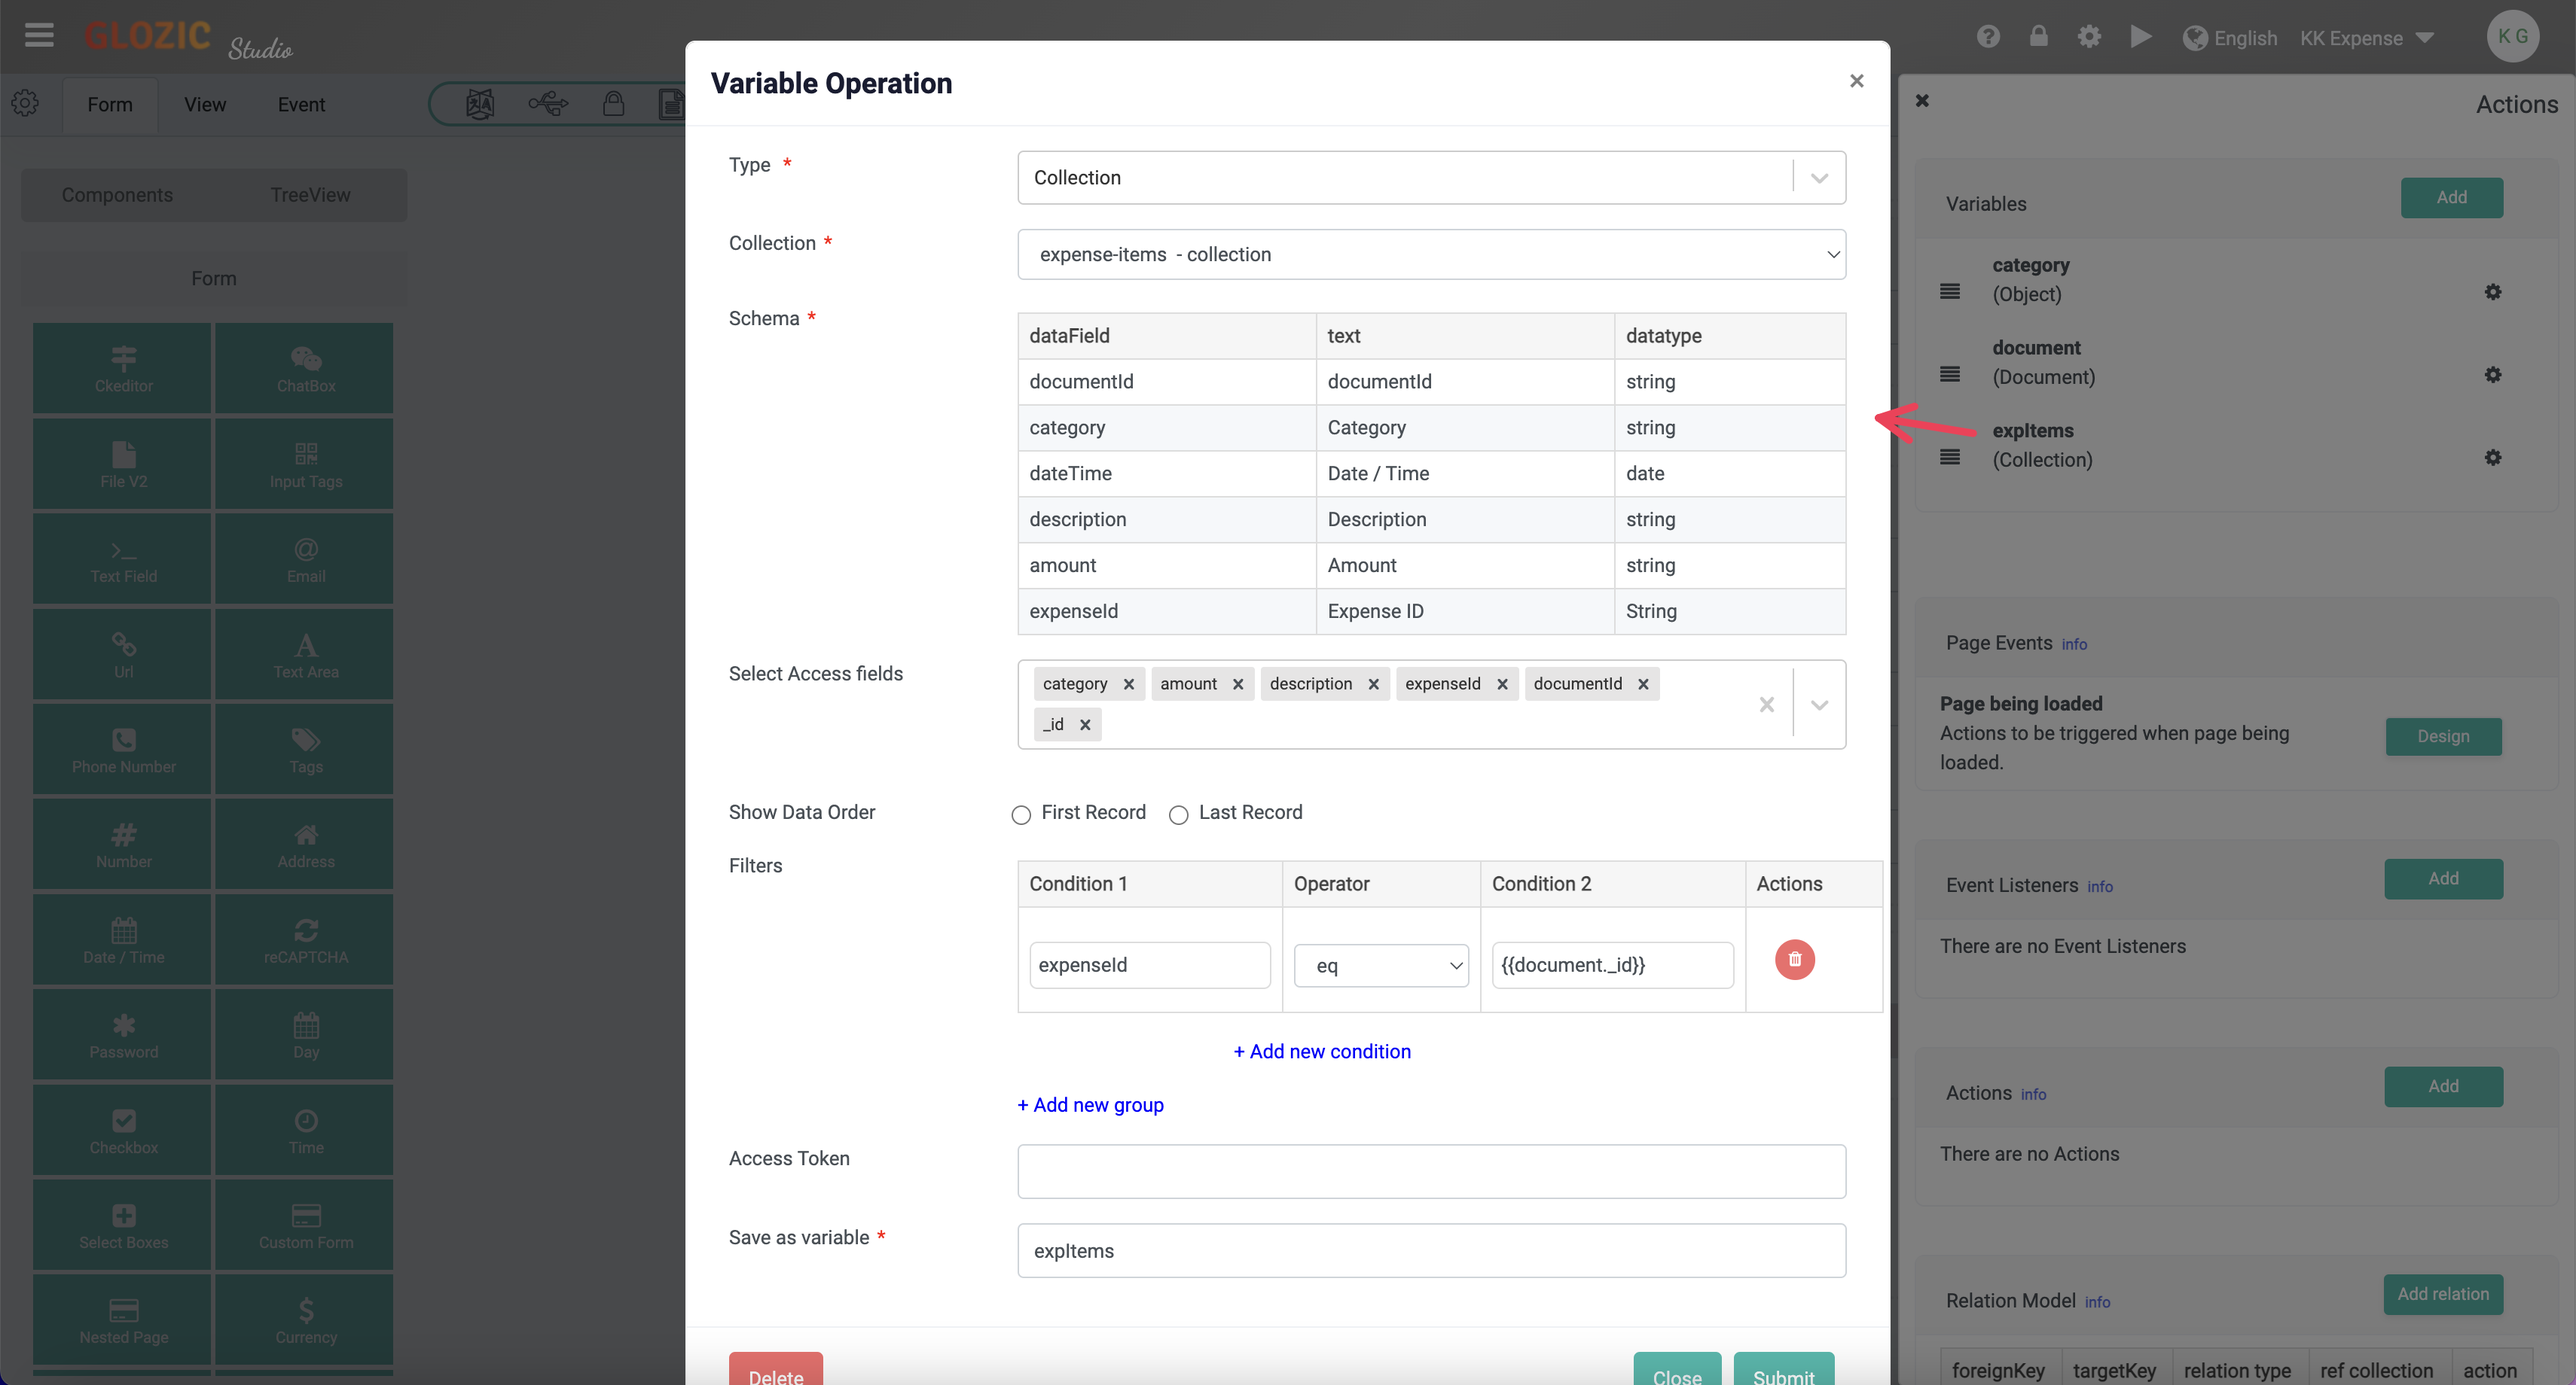
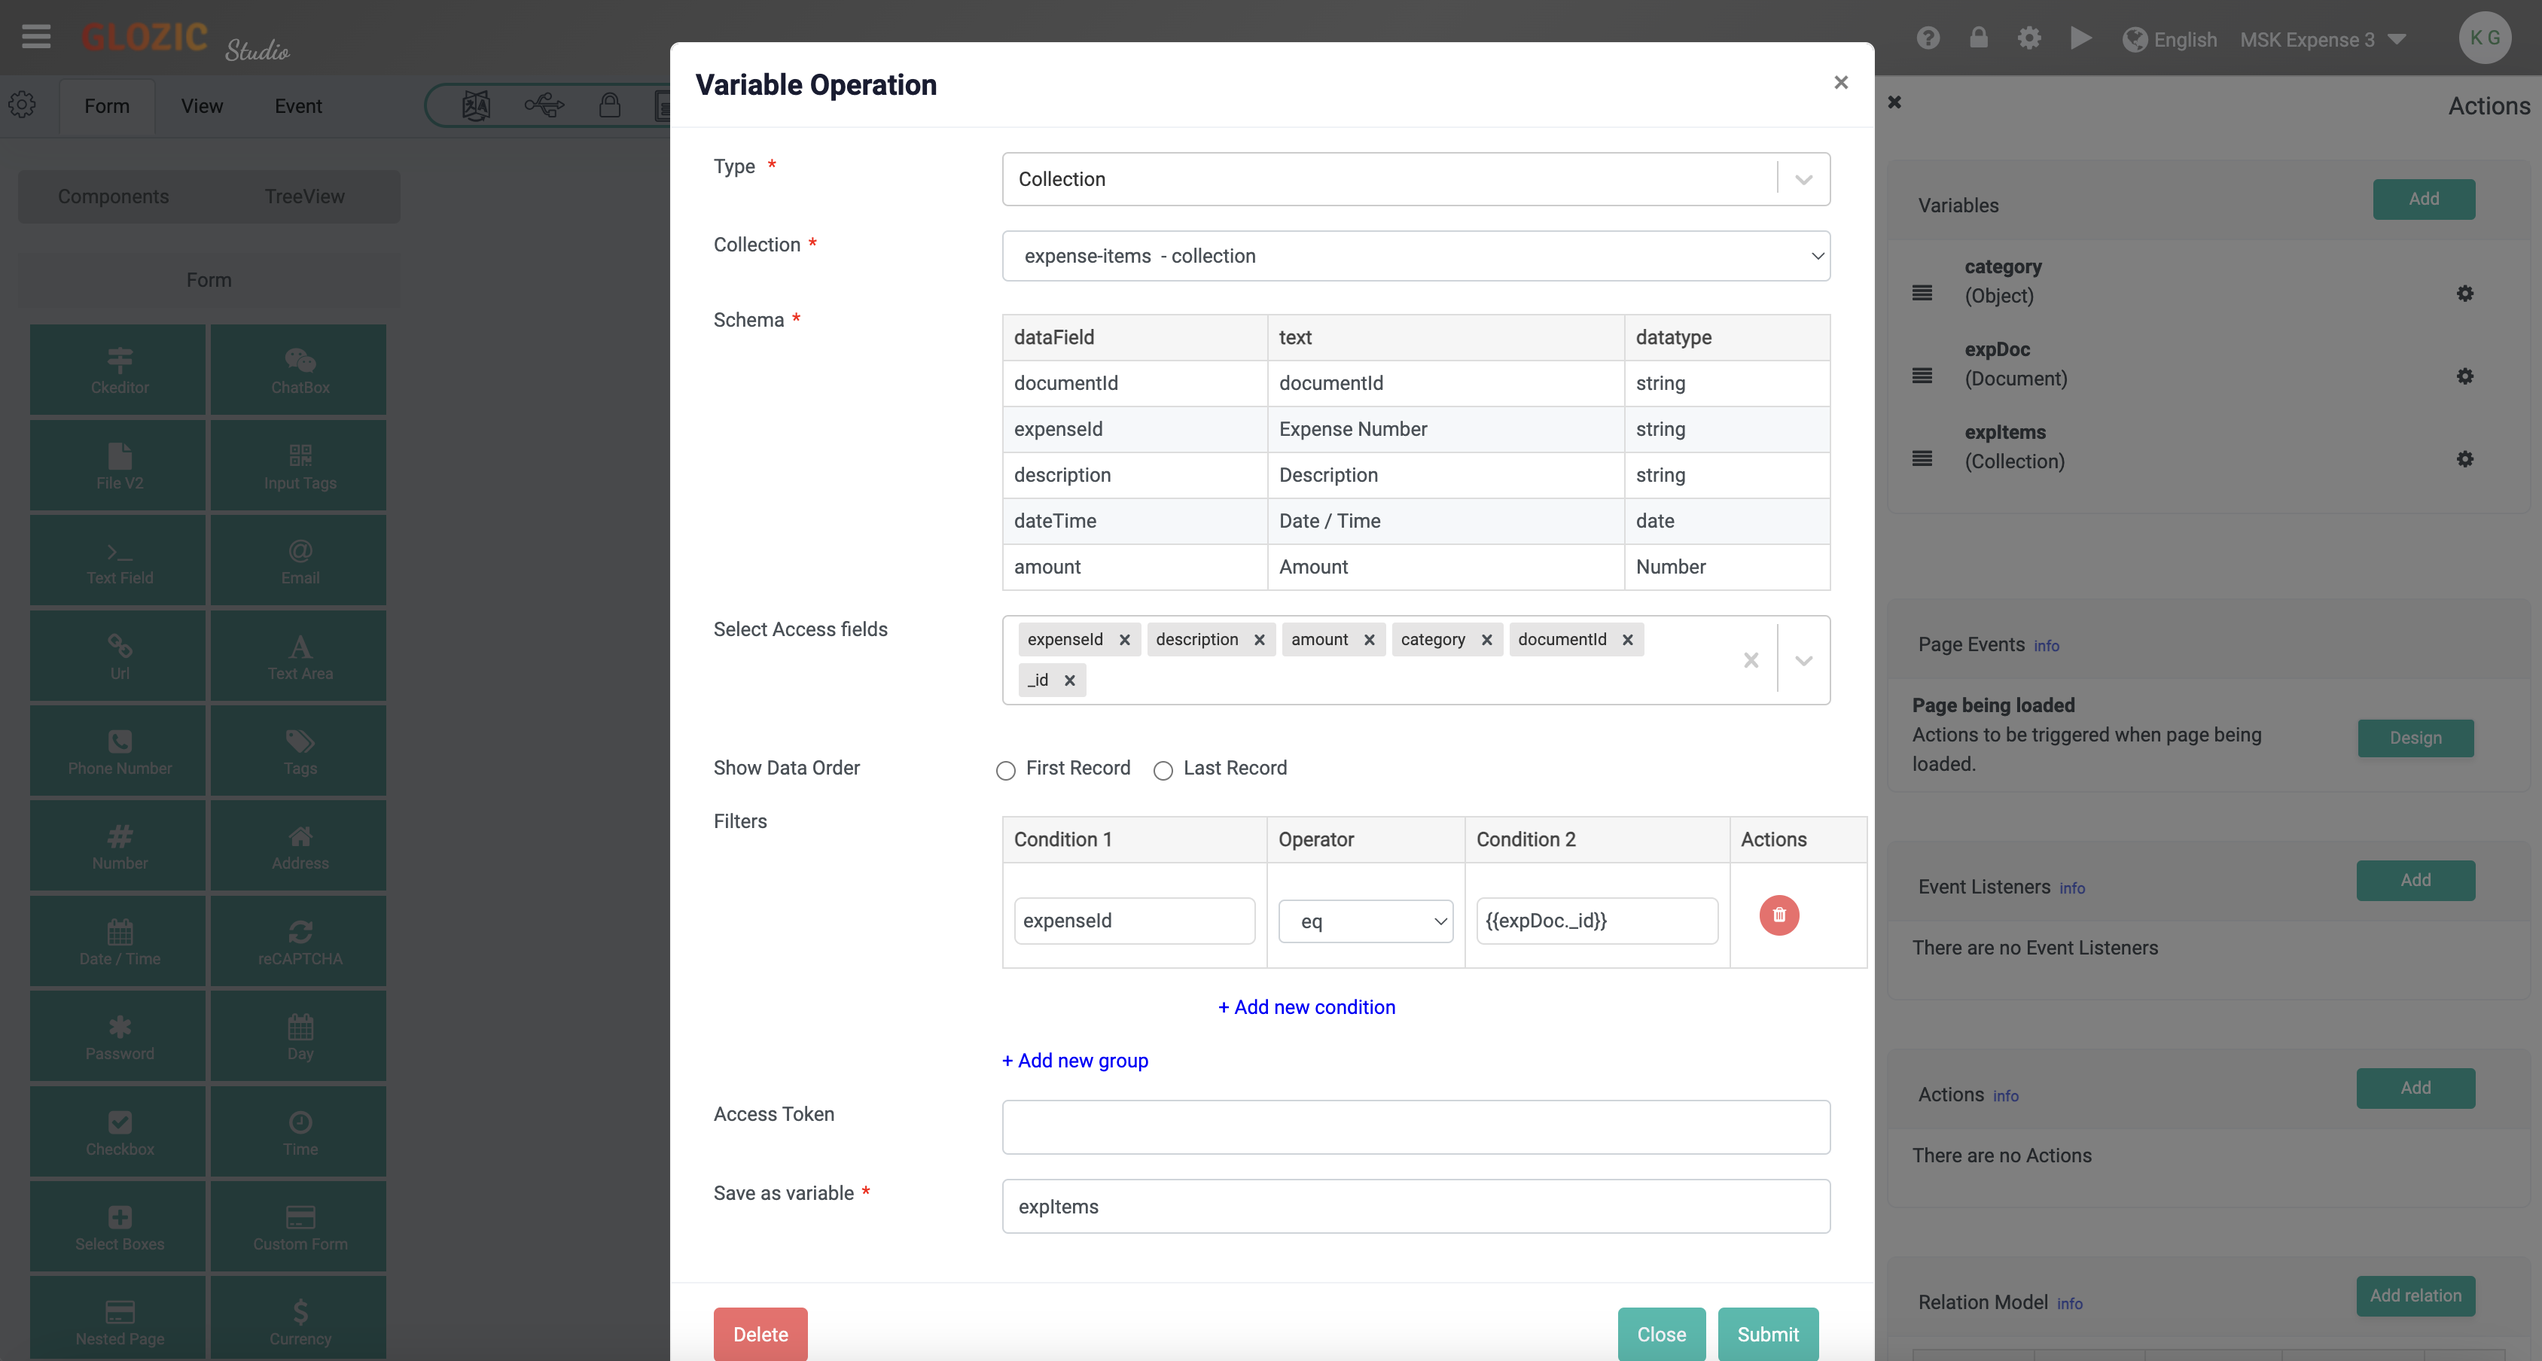
correction

diff --git a/docs/02 tutorial-advanced/05 update-related-documents.md b/docs/02 tutorial-advanced/05 update-related-documents.md
@@ -16,14 +16,14 @@ Add the following variables to the Expense collection design.
 | Field | Value |
 |--|--|
 | Type | Document |
-| Save as variable | document |
+| Save as variable | expDoc |
 
 | Field | Value |
 |--|--|
 | Type | Collection |
 | Collection | `expense-items - collection` |
 | Select Access Fields | `category`, `amount`, `description`, `expenseId`, `documentId`, `_id` |
-| Filters | `expenseId` eq `{{document._id}}` |
+| Filters | `expenseId` eq `{{expDoc._id}}` |
 | Save as variable | expItems |
 
 Below screen capture shows how the `expItems` is being configured.
@@ -34,10 +34,14 @@ Below screen capture shows how the `expItems` is being configured.
 Open the Code editor of the **Expense** collection form, enter the following code to replace the `expenseItems` component
 ```Javascript
 $(document).ready(function(){
-  const expenseItems = form.expItems;
-  const value = formio.getValue();
-  value["data"]["expenseItems"] = expenseItems;
-  formio.setValue(value)
+    const expenseItems = form.expItems.slice();
+    const value = formio.getValue();
+    value["data"]["expenseItems"] = [].slice();
+    console.log("values", ["data"]["expenseItems"] );
+    expenseItems.forEach(x => {
+        value["data"]["expenseItems"].push(x);
+    });
+    formio.setValue(value);
 })
 ```
 
